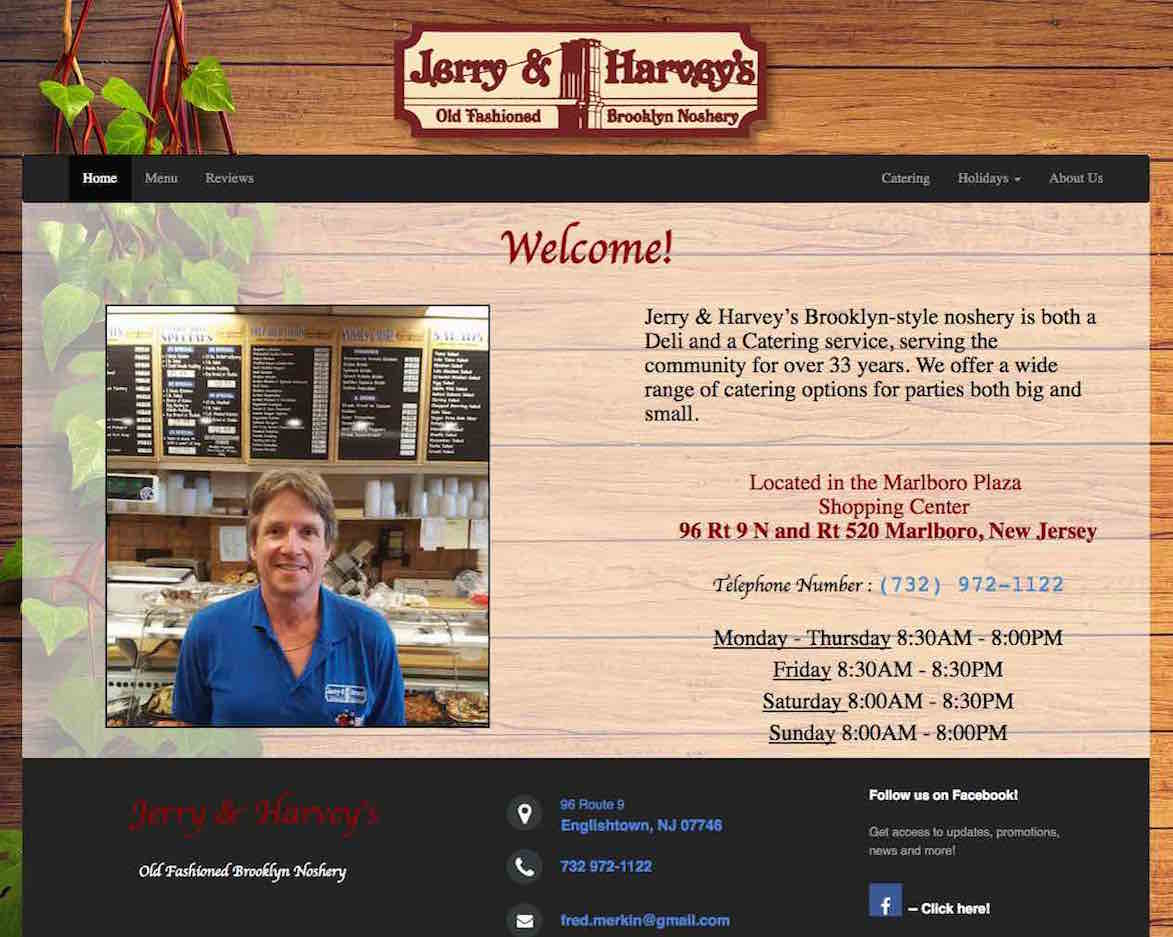
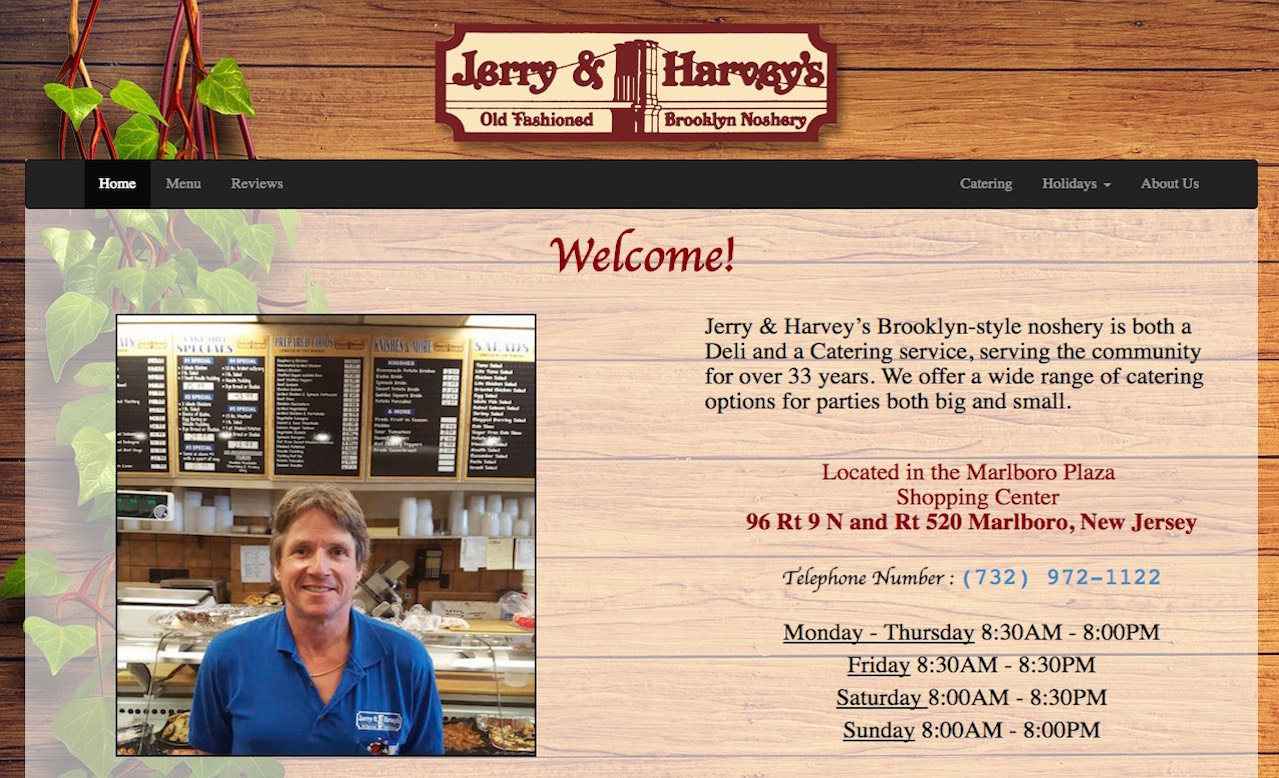
Fixed photos, made smaller for faster loading

diff --git a/index.html b/index.html
@@ -278,6 +278,8 @@ ga('send', 'pageview');
       <li><img src="images/crypdesigns.jpg" alt="crypdesigns" class="noMaxWidthImg"></li>
       <li><img src="images/newscloud.jpg" alt="newscloud" class="noMaxWidthImg"></li>
       <li><img src="images/picturesque.jpg" alt="picturesque" class="noMaxWidthImg"></li>
+      <li><img src="images/rps.jpg" alt="RPS" class="noMaxWidthImg"></li>
+      <li><img src="images/jerry_harveys.jpg" alt="Jerry & Harvey's" class="noMaxWidthImg"></li>
     </ul>
 
     <!-- Slideshow 3 Pager -->
@@ -285,8 +287,8 @@ ga('send', 'pageview');
       <li class="portfolioLink"><a href=""><img src="images/crypdesigns_thumb.png" alt="thumb" class="noMaxWidthImg"></a></li>
       <li><a href=""><img src="images/newscloud_thumb.png" alt="thumb" class="noMaxWidthImg"></a></li>
       <li><a href=""><img src="images/picturesque_thumb.png" alt="thumb" class="noMaxWidthImg"></a></li>
-      <li><a href=""><img src="" alt="RPS" class="noMaxWidthImg"></a></li>
-      <li><a href=""><img src="" alt="Jerry and Harveys" class="noMaxWidthImg"></a></li>
+      <li><a href=""><img src="images/rps_thumb.jpg" alt="RPS" class="noMaxWidthImg"></a></li>
+      <li><a href=""><img src="images/jerry_harveys_thumb.jpg" alt="Jerry and Harveys" class="noMaxWidthImg"></a></li>
     </ul>
 
     <ul id="sliderLinks">
